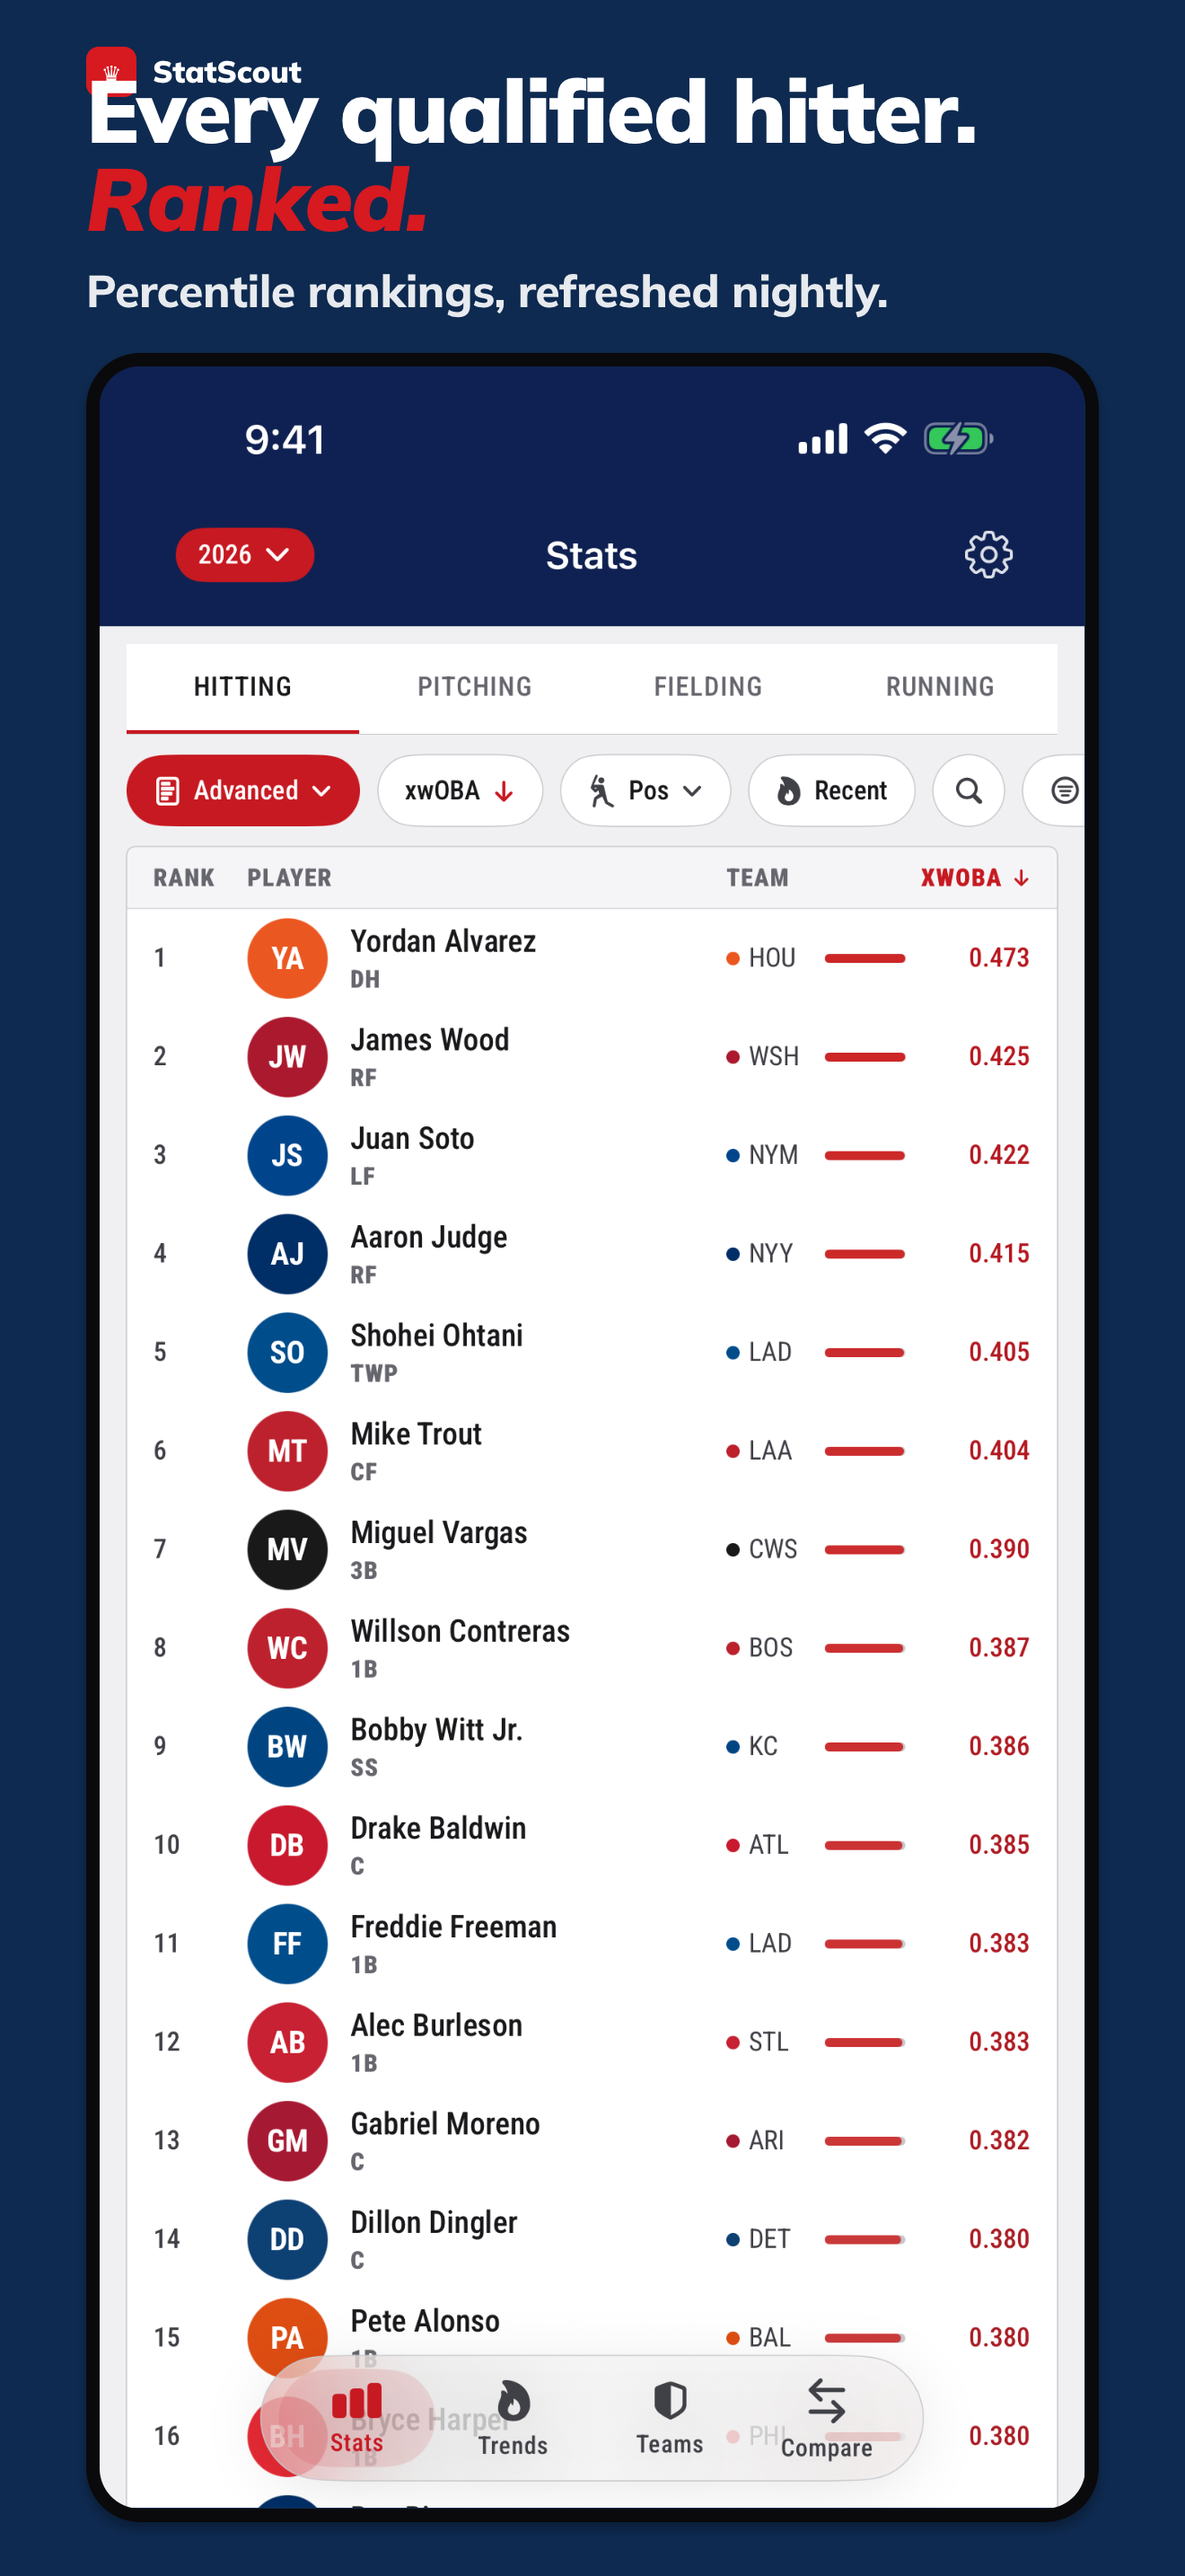
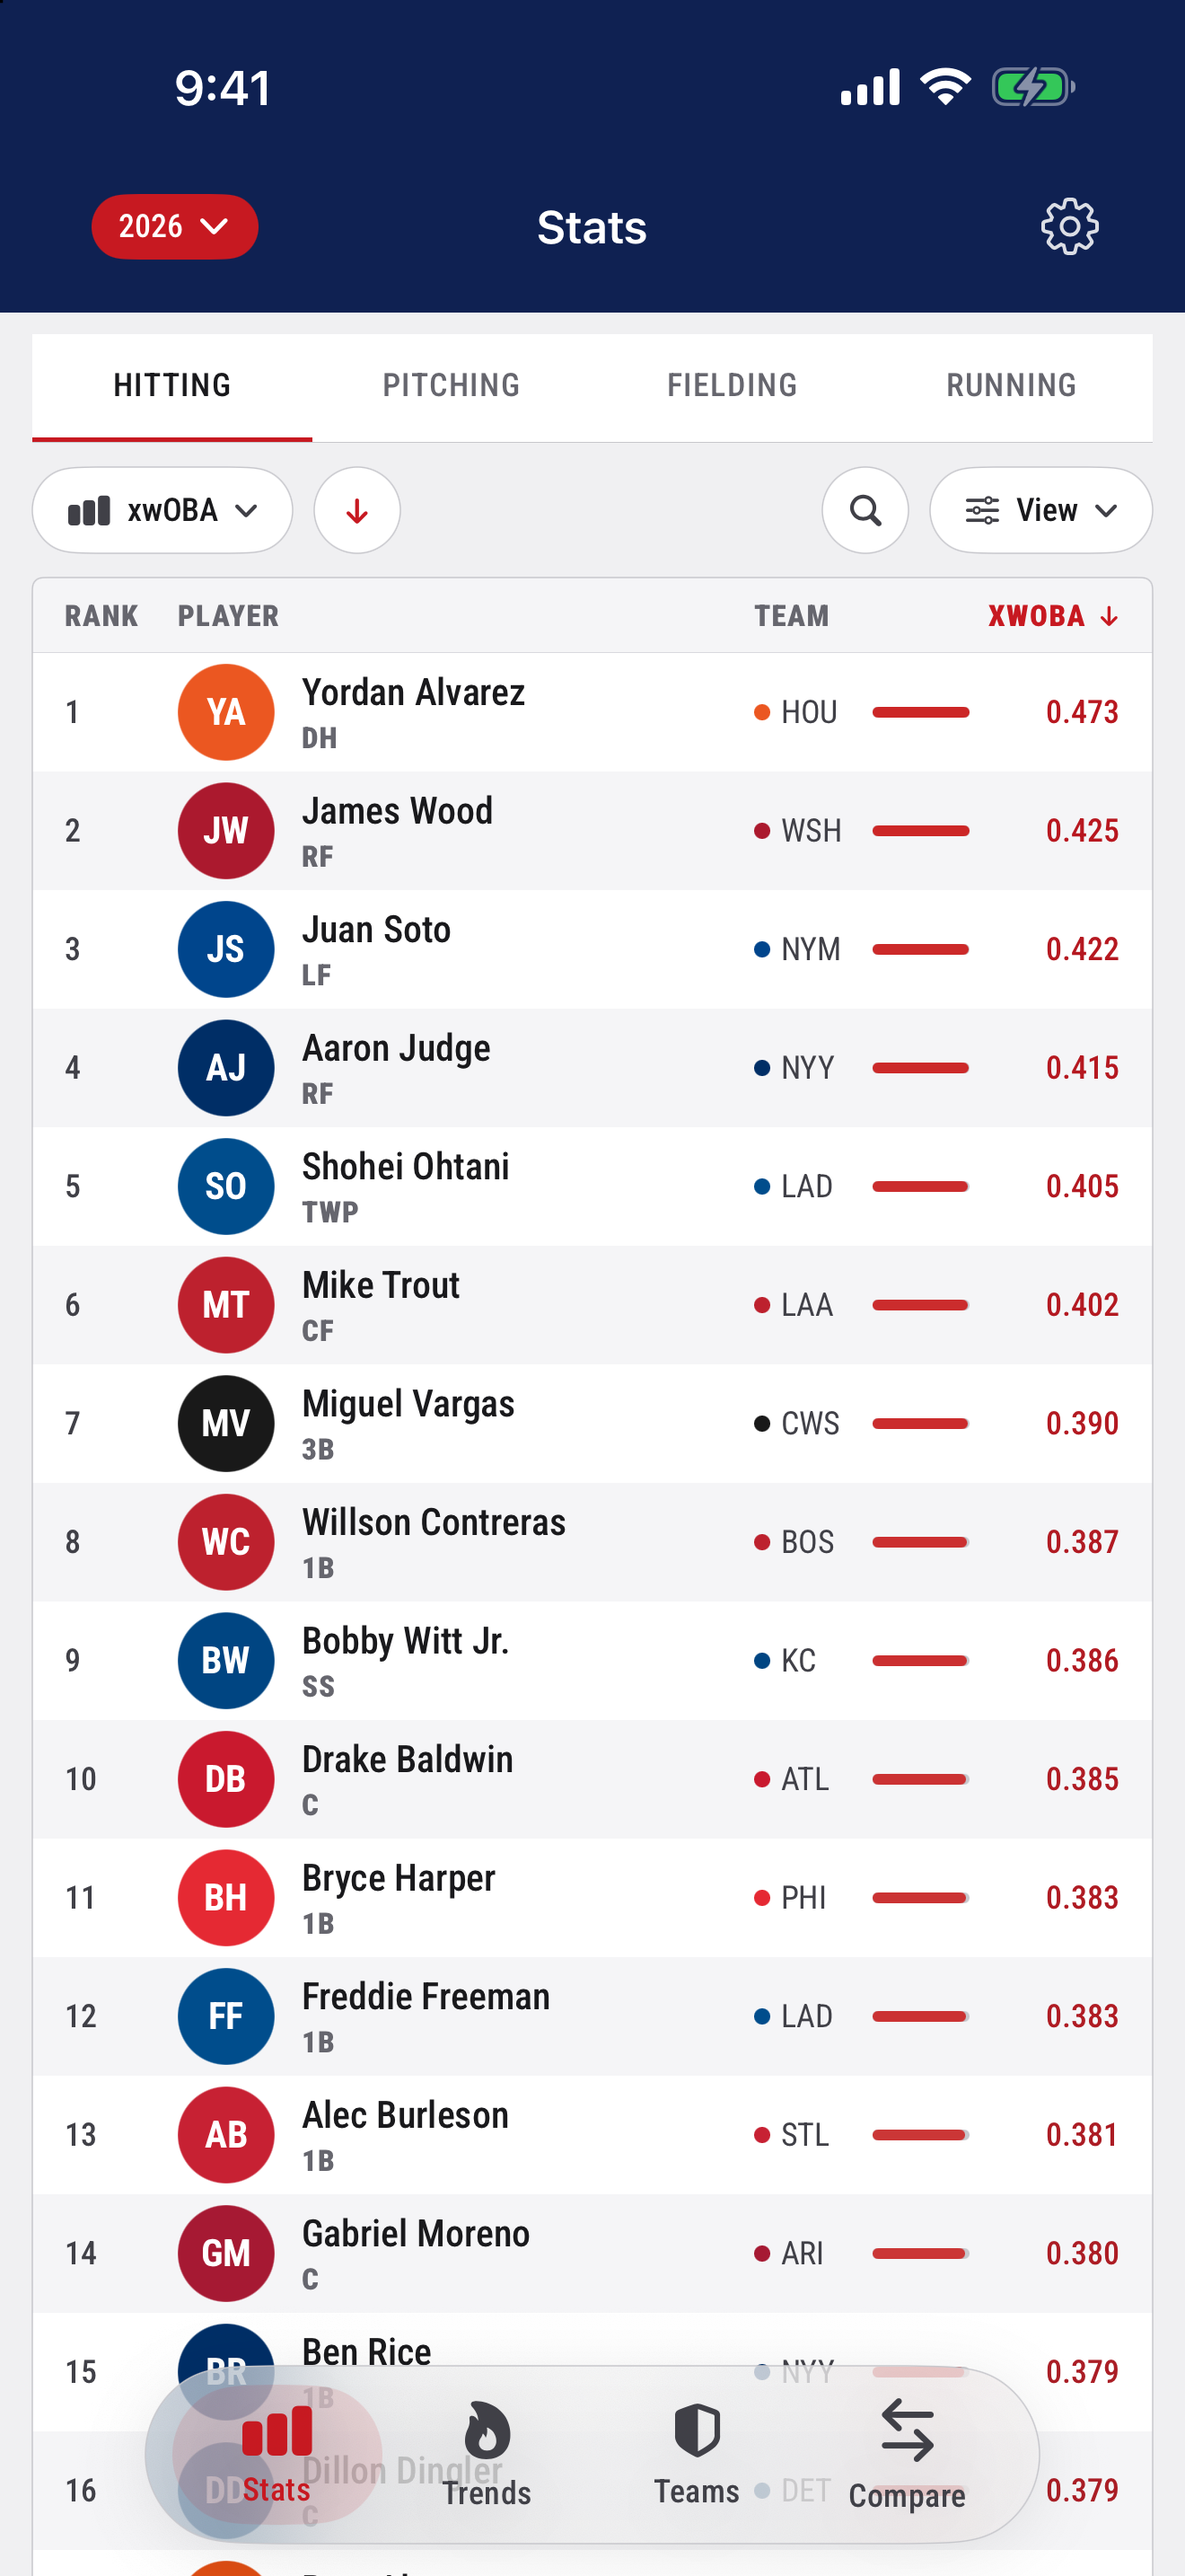
fix: open player profiles from trends

diff --git a/StatScout/Views/HotColdView.swift b/StatScout/Views/HotColdView.swift
@@ -332,6 +332,44 @@ struct HotColdView: View {
         let now = form.metrics[metric.key]
         let then = form.priorMetrics[metric.key]
 
+        if let player {
+            NavigationLink(value: player) {
+                rowContent(
+                    form: form,
+                    player: player,
+                    rank: rank,
+                    index: index,
+                    delta: delta,
+                    now: now,
+                    then: then
+                )
+            }
+            .buttonStyle(.plain)
+            .accessibilityIdentifier("trend-player-\(player.playerId)")
+            .contextMenu { followButton(for: form) }
+        } else {
+            rowContent(
+                form: form,
+                player: nil,
+                rank: rank,
+                index: index,
+                delta: delta,
+                now: now,
+                then: then
+            )
+            .contextMenu { followButton(for: form) }
+        }
+    }
+
+    private func rowContent(
+        form: RecentForm,
+        player: Player?,
+        rank: Int?,
+        index: Int,
+        delta: Double,
+        now: Double?,
+        then: Double?
+    ) -> some View {
         HStack(spacing: 10) {
             if let rank {
                 Text("\(rank)")
@@ -381,21 +419,16 @@ struct HotColdView: View {
             alignment: .bottom
         )
         .contentShape(Rectangle())
-        .overlay {
-            if let player {
-                NavigationLink(value: player) { Color.clear }
-                    .buttonStyle(.plain)
-            }
-        }
-        // Following straight off the board, so a name you spot here can be
-        // pinned without a round trip through the player page.
-        .contextMenu {
-            Button {
-                favorites.toggleFavorite(playerId: form.playerId)
-            } label: {
-                let following = favorites.isFavorite(playerId: form.playerId)
-                Label(following ? "Unfollow" : "Follow", systemImage: following ? "star.slash" : "star")
-            }
+    }
+
+    /// Following straight off the board, so a name you spot here can be pinned
+    /// without a round trip through the player page.
+    private func followButton(for form: RecentForm) -> some View {
+        Button {
+            favorites.toggleFavorite(playerId: form.playerId)
+        } label: {
+            let following = favorites.isFavorite(playerId: form.playerId)
+            Label(following ? "Unfollow" : "Follow", systemImage: following ? "star.slash" : "star")
         }
     }
 

diff --git a/StatScoutUITests/TrendsNavigationUITests.swift b/StatScoutUITests/TrendsNavigationUITests.swift
@@ -1,0 +1,35 @@
+import XCTest
+
+@MainActor
+final class TrendsNavigationUITests: XCTestCase {
+    func testPlayerRowOpensProfile() {
+        let app = XCUIApplication()
+        app.launchEnvironment["STATSCOUT_FORCE_PRO"] = "1"
+        app.launchArguments += [
+            "-hasCompletedOnboarding", "YES",
+            "-lastSeenUpdateShowcase", "stats-trends-compare-1.3.1",
+        ]
+        app.launch()
+
+        let trendsTab = app.buttons["Trends"]
+        XCTAssertTrue(trendsTab.waitForExistence(timeout: 15))
+        trendsTab.tap()
+
+        let playerRow = app.buttons.matching(
+            NSPredicate(format: "identifier BEGINSWITH %@", "trend-player-")
+        ).firstMatch
+        XCTAssertTrue(playerRow.waitForExistence(timeout: 40), "A Trends player row should load")
+        let playerName = playerRow.label
+            .split(separator: ",")
+            .dropFirst()
+            .first?
+            .trimmingCharacters(in: .whitespacesAndNewlines) ?? ""
+        XCTAssertFalse(playerName.isEmpty, "The Trends row should identify its player")
+        playerRow.tap()
+
+        XCTAssertTrue(
+            app.navigationBars[playerName].waitForExistence(timeout: 10),
+            "Tapping a Trends row should open that player's profile"
+        )
+    }
+}

diff --git a/StatScout/Views/Components.swift b/StatScout/Views/Components.swift
@@ -561,6 +561,7 @@ struct LeaderboardTableRow: View {
         }
         .frame(height: SavantGeo.rowHeight)
         .padding(.horizontal, SavantGeo.padInline)
+        .background(rank % 2 == 1 ? SavantPalette.surface : SavantPalette.surfaceAlt)
         .contentShape(Rectangle())
     }
 }
